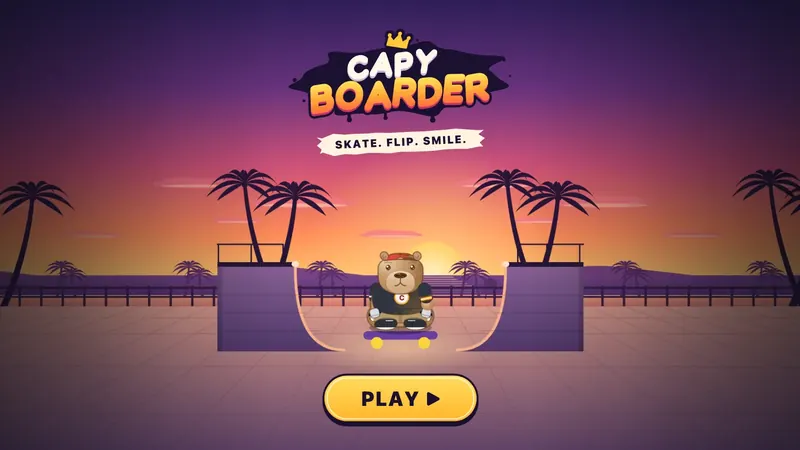
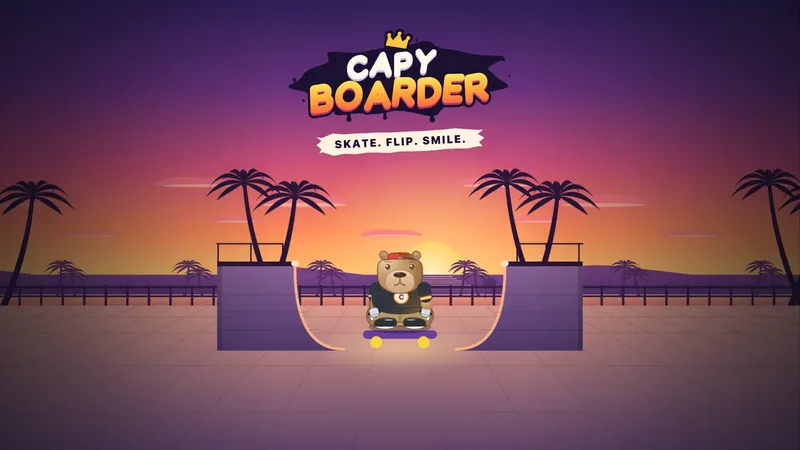
Remediate the remaining visual weaknesses from the review
- Body type: self-host Figtree (SIL OFL, licence in public/fonts) as the body
  face beside Fredoka, preloaded, replacing the system UI stack.
- CapyBoarder: remove the in-game PLAY button from the key art (filled from the
  surrounding pavement) so cards, the game page and the share image show a
  clean scene; regenerate the 800px copy and the share image.
- Axolotl Odyssey: regenerate the share image from the new key art.
- Screenshot rails: when portrait shots of different shapes are mixed (Axolotl
  Tank), show them all at the median shape so the gallery reads as one row;
  each still opens uncropped in the viewer.
- About: a shelf of the real app icons and a facts row drawn from the
  catalogue (out now, in the lab, ads, made in).
- Contact: an axolotl from Axolotl Tank leads the card in place of the logo.

Claude-Session: https://claude.ai/code/session_01DRqDKoheH6SmoZffQYUfDG

diff --git a/src/styles/global.css b/src/styles/global.css
@@ -21,6 +21,25 @@
 		U+1D00-1DBF, U+1E00-1E9F, U+1EF2-1EFF, U+2020, U+20A0-20AB, U+20AD-20C0, U+2113, U+2C60-2C7F, U+A720-A7FF;
 }
 
+@font-face {
+	font-family: "Figtree";
+	font-style: normal;
+	font-weight: 300 900;
+	font-display: swap;
+	src: url("/fonts/figtree-latin.woff2") format("woff2");
+	unicode-range: U+0000-00FF, U+0131, U+0152-0153, U+02BB-02BC, U+02C6, U+02DA, U+02DC, U+0304, U+0308, U+0329,
+		U+2000-206F, U+20AC, U+2122, U+2191, U+2193, U+2212, U+2215, U+FEFF, U+FFFD;
+}
+@font-face {
+	font-family: "Figtree";
+	font-style: normal;
+	font-weight: 300 900;
+	font-display: swap;
+	src: url("/fonts/figtree-latin-ext.woff2") format("woff2");
+	unicode-range: U+0100-02BA, U+02BD-02C5, U+02C7-02CC, U+02CE-02D7, U+02DD-02FF, U+0304, U+0308, U+0329,
+		U+1D00-1DBF, U+1E00-1E9F, U+1EF2-1EFF, U+2020, U+20A0-20AB, U+20AD-20C0, U+2113, U+2C60-2C7F, U+A720-A7FF;
+}
+
 :root {
 	/* Brand */
 	--navy-950: #051320;
@@ -50,7 +69,7 @@
 	--accent: var(--teal-600);
 
 	--font-display: "Fredoka", ui-rounded, "Arial Rounded MT Bold", ui-sans-serif, system-ui, sans-serif;
-	--font-body: ui-sans-serif, system-ui, -apple-system, "Segoe UI", Roboto, "Helvetica Neue", Arial, sans-serif;
+	--font-body: "Figtree", ui-sans-serif, system-ui, -apple-system, "Segoe UI", Roboto, "Helvetica Neue", Arial, sans-serif;
 
 	--radius-s: 0.75rem;
 	--radius: 1.25rem;

diff --git a/README.md b/README.md
@@ -47,7 +47,8 @@ page, the footer links, the sitemap and the search/social metadata are all gener
 - Components: `src/components/` (`CollectionTile` for the homepage collections, `GameCard` for
   "More from BioLuma Labs", `PlayPoster` + `MediaViewer` for trailers and the screenshot lightbox, `StoreLinks`).
 - `public/og.jpg` is the default 1200×630 share image (social sites don't render SVG).
-- The heading font is Fredoka (SIL Open Font License, see `public/fonts/OFL-Fredoka.txt`).
+- The heading font is Fredoka and the body font is Figtree (both SIL Open Font License, see
+  `public/fonts/OFL-Fredoka.txt` and `public/fonts/OFL-Figtree.txt`).
 
 ```bash
 npm install
